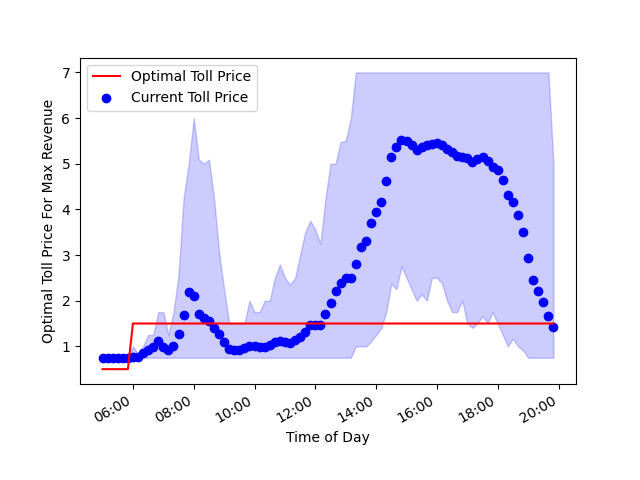
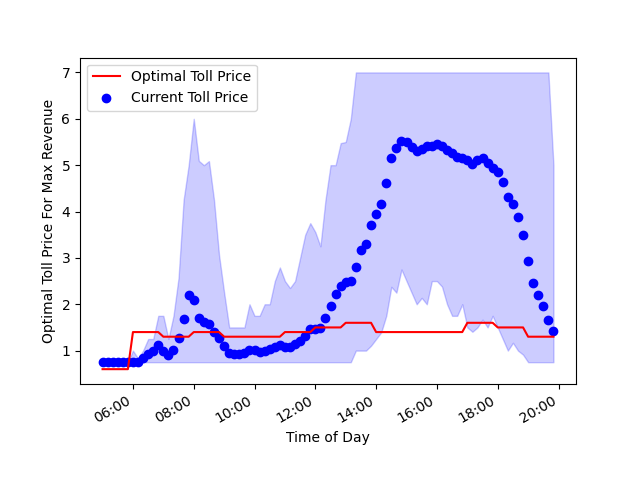
make dynamic time design finer granularity

diff --git a/.ipynb_checkpoints/piecewise_linear_distribution-checkpoint.py b/.ipynb_checkpoints/piecewise_linear_distribution-checkpoint.py
@@ -8,8 +8,8 @@ from joblib import Parallel, delayed
 from tqdm import tqdm
 
 ## Script Options
-DENSITY_RE_CALIBRATE = True
-SINGLE_HOUR_RETRAIN = True
+DENSITY_RE_CALIBRATE = False
+SINGLE_HOUR_RETRAIN = False
 TIME_DYNAMIC_RETRAIN = True
 N_CPU = 25
 
@@ -600,7 +600,7 @@ else:
 
 # assert False
 
-GRANULARITY = 0.5
+GRANULARITY = 0.1
 
 D = df_hourly_avg[df_hourly_avg["Hour"] == 17].iloc[0]["Demand"]
 print("Demand =", D)

diff --git a/piecewise_linear_distribution.py b/piecewise_linear_distribution.py
@@ -8,8 +8,8 @@ from joblib import Parallel, delayed
 from tqdm import tqdm
 
 ## Script Options
-DENSITY_RE_CALIBRATE = True
-SINGLE_HOUR_RETRAIN = True
+DENSITY_RE_CALIBRATE = False
+SINGLE_HOUR_RETRAIN = False
 TIME_DYNAMIC_RETRAIN = True
 N_CPU = 25
 
@@ -600,7 +600,7 @@ else:
 
 # assert False
 
-GRANULARITY = 0.5
+GRANULARITY = 0.1
 
 D = df_hourly_avg[df_hourly_avg["Hour"] == 17].iloc[0]["Demand"]
 print("Demand =", D)
